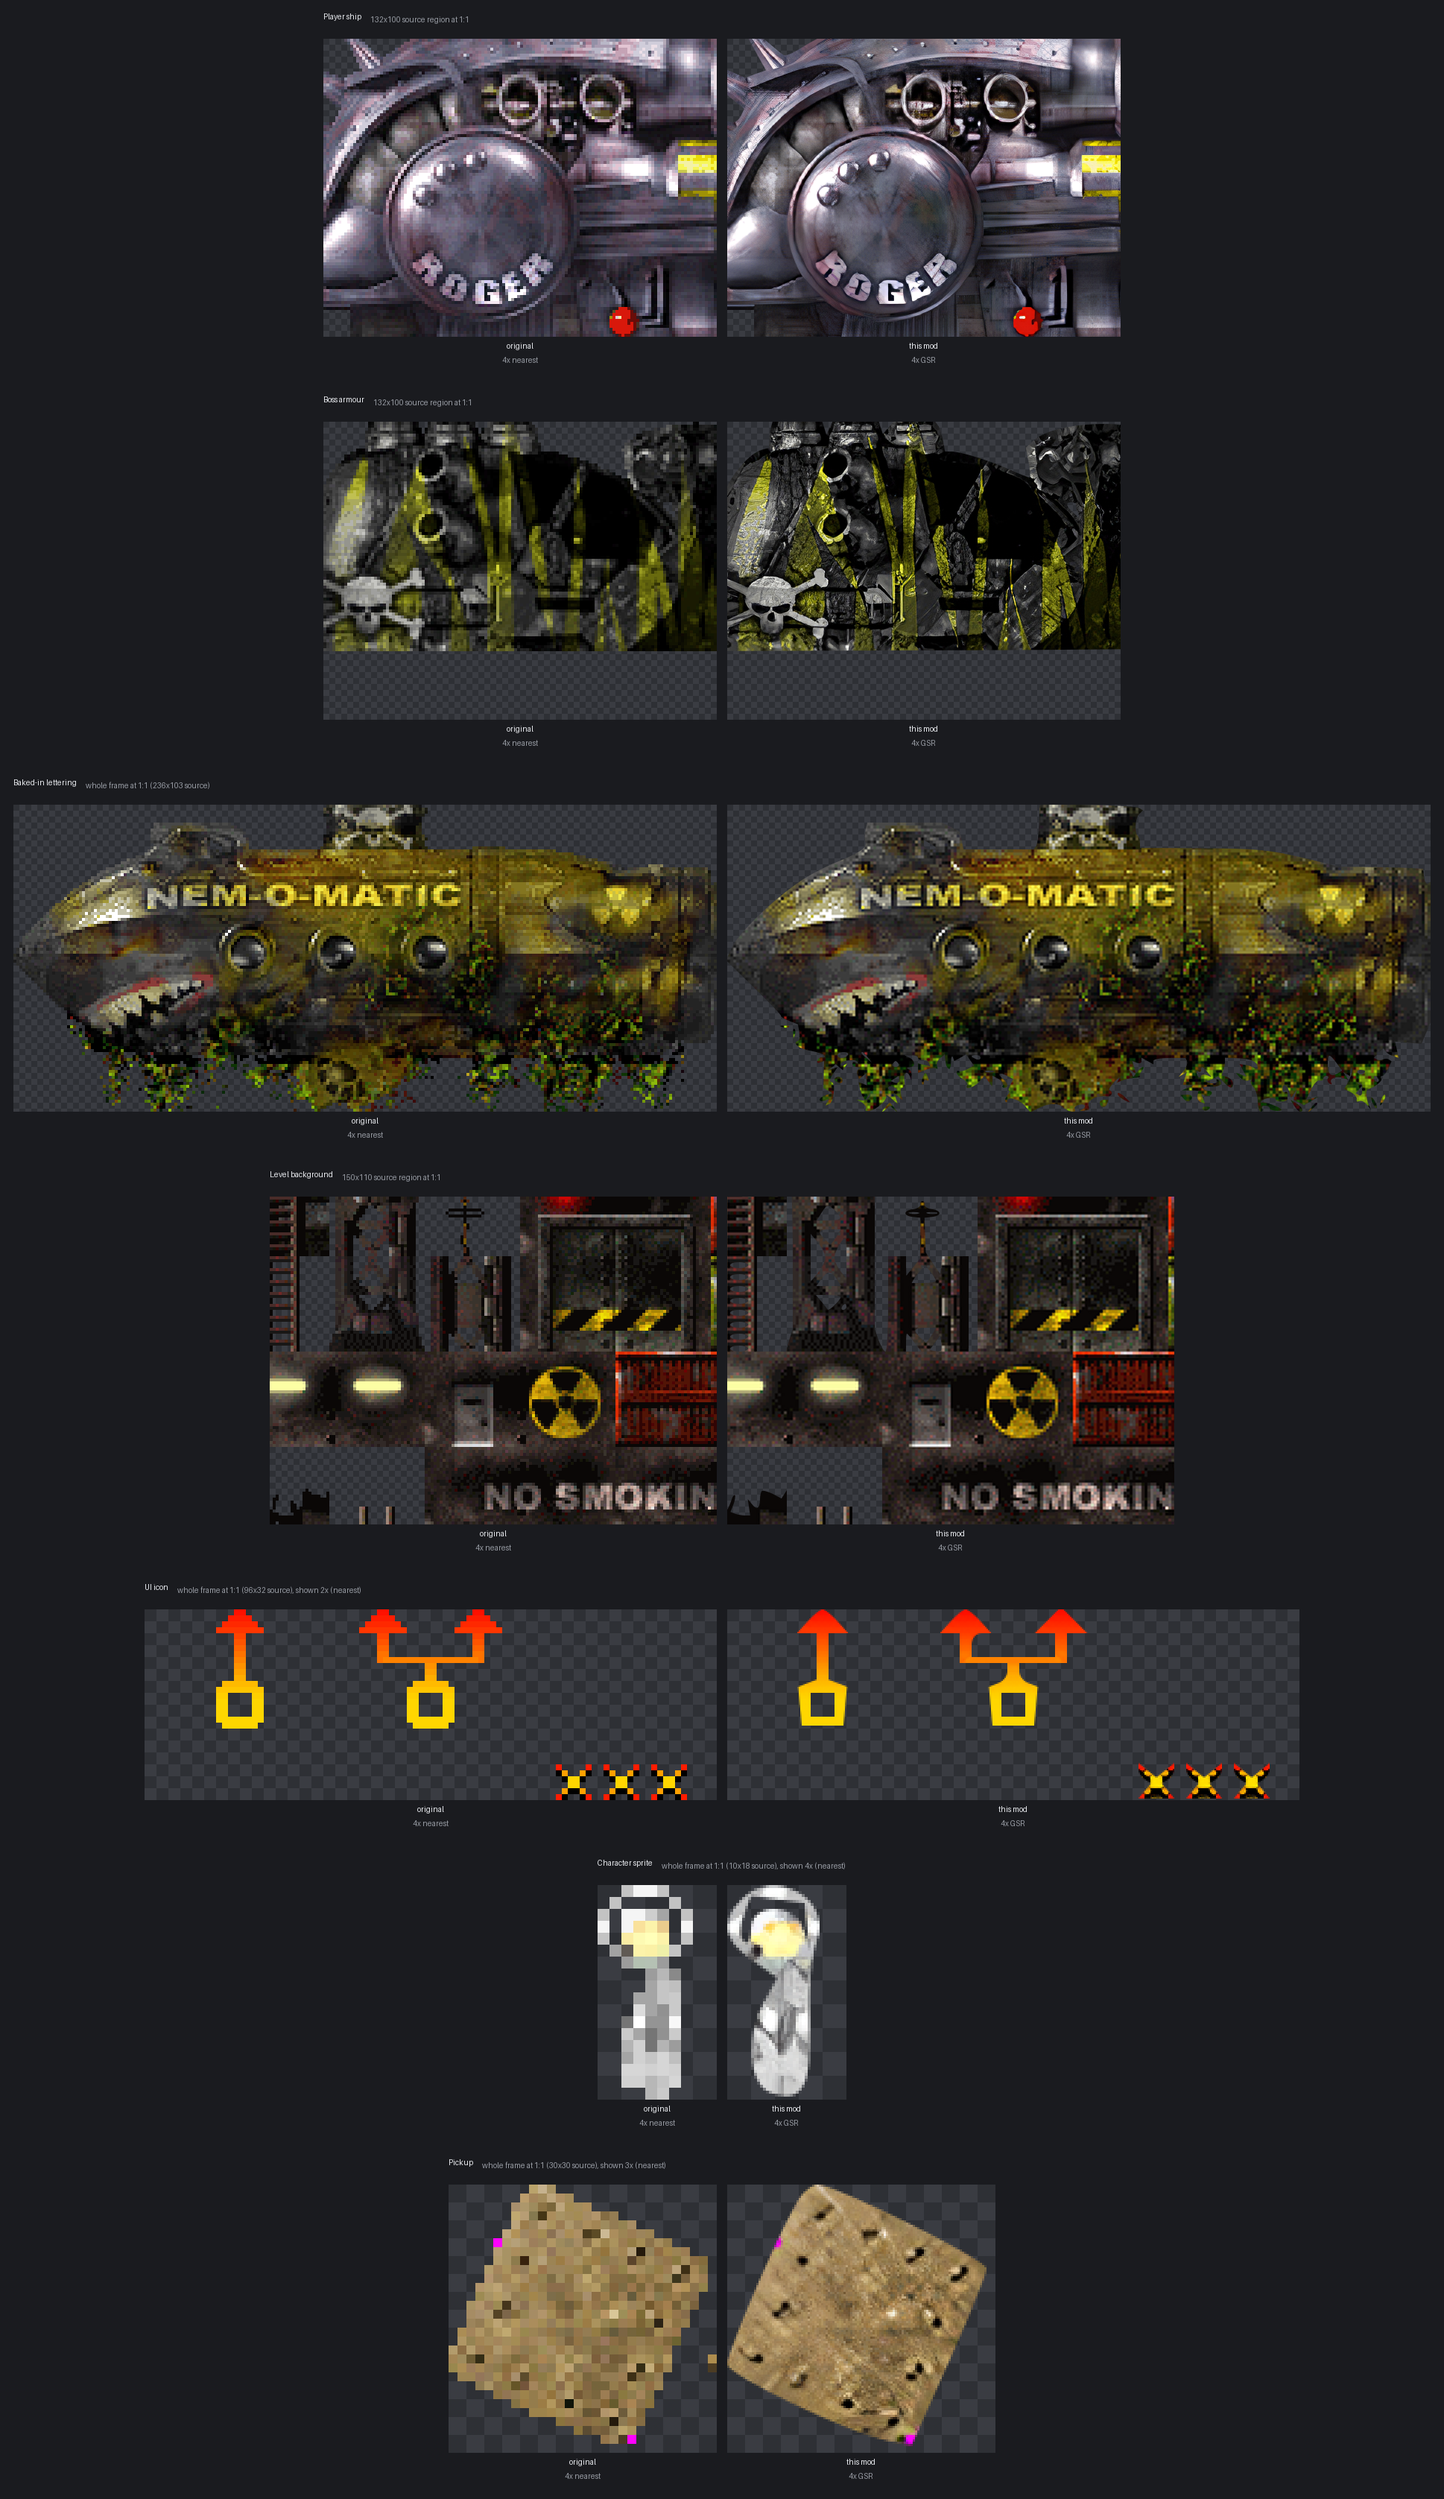
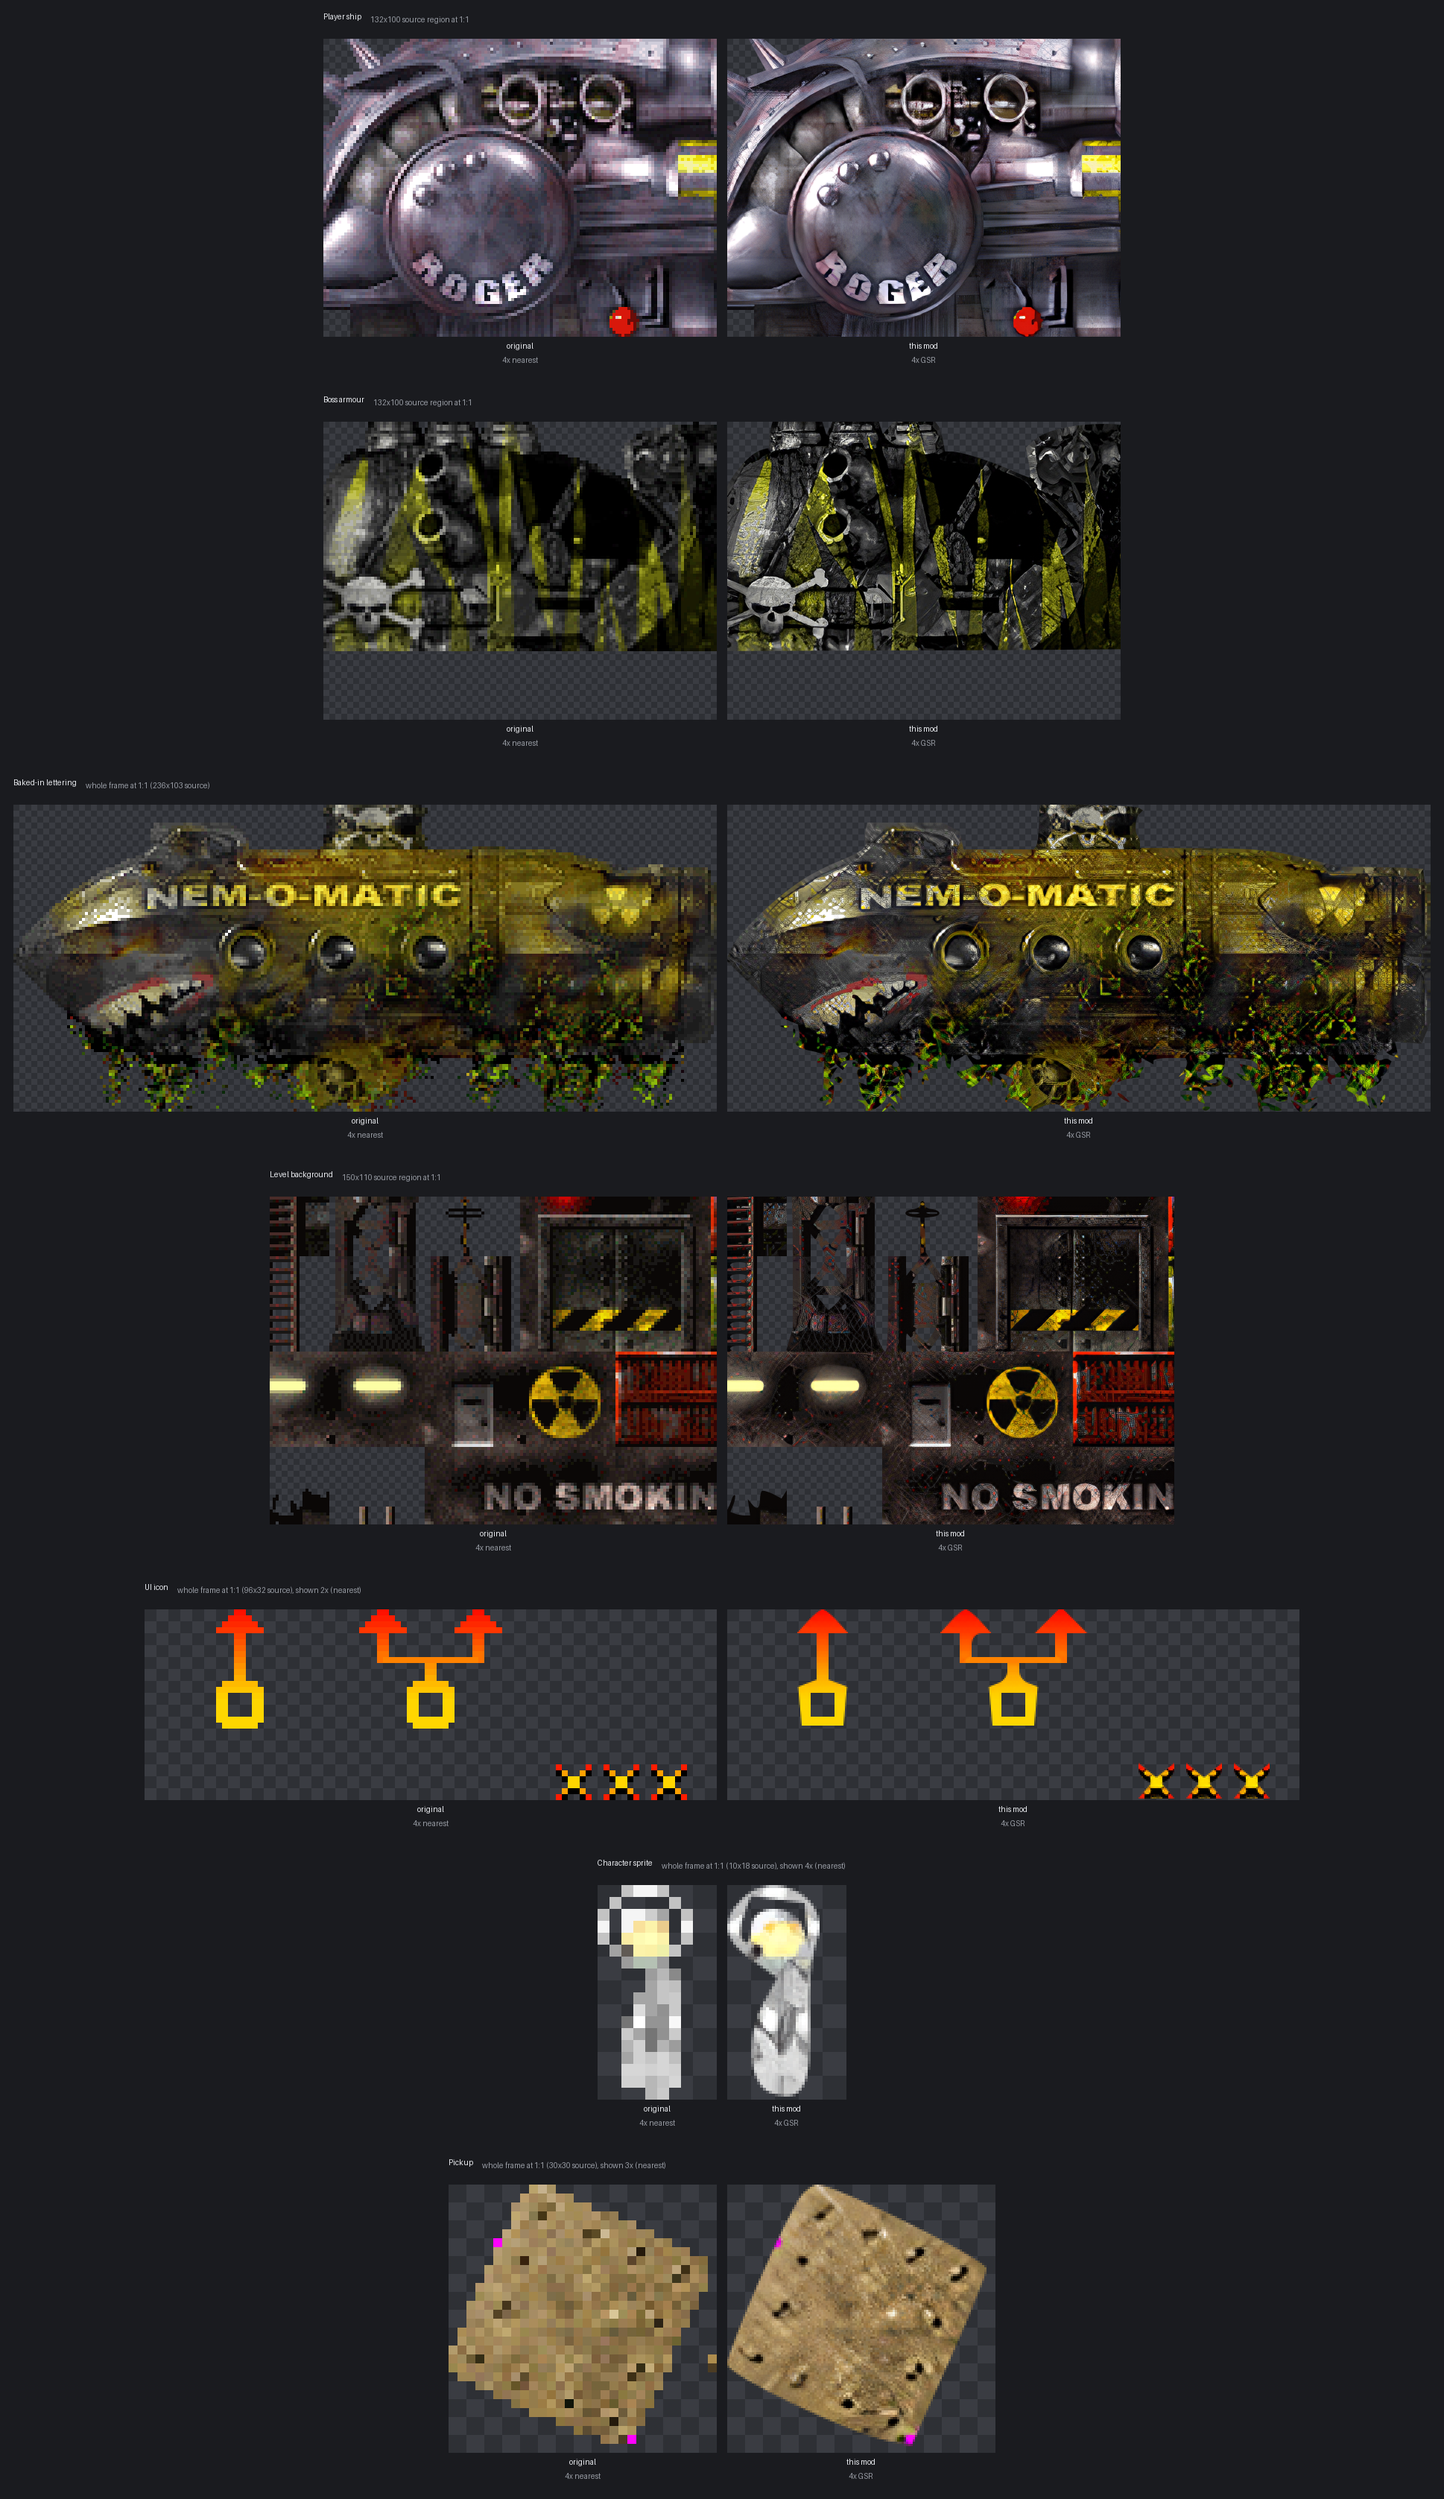
GSR: real upscales for dithered tilesets the guard was quietly LANCZOS'ing
The per-block plausibility guard added with the bleed fix turned out to be
rejecting genuine model garbage that was still being produced: a nearest-
neighbour 2x prescale turns heavy pixel dither into a razor-sharp 2px
checkerboard, and on such art the model resonates on it and paints saturated
rainbow moire (level_cannon's lamp, water/bigsub's camo). The guard caught it
and silently shipped plain LANCZOS instead -- clean, but visibly unupscaled.

FP32 and untiled runs reproduce the moire pixel-for-pixel, so precision,
tiling and memory are ruled out; a bilinear prescale of the same input comes
back clean. Rejected prescaled outputs are therefore redone with a bilinear
prescale (which passes verification with a real GAN upscale) before LANCZOS
is ever accepted; run.sh now forwards GSR_PREFILTER.

A whole-cache sweep with the masked per-block metric also caught 16 files
that shipped with garbage before the guard existed (worst: clouds/sun/fog
edge junk, menu-item JPGs). All 315 suspect files rebuilt through the fixed
pipeline and re-verified: the only remaining flags are alpha-composited
false positives measuring 0.8-5.0 once rendered the way the game renders
them. README figures regenerated from the repaired caches.

diff --git a/tools/gsr/build_hd_gsr.py b/tools/gsr/build_hd_gsr.py
@@ -474,7 +474,7 @@ class Upscaler:
         # deterministic across runs — a genuinely hard image, not corruption), real
         # garbage is 40+. 15 was too tight and needlessly LANCZOS'd worm1b.
         self.garbage_thresh = float(os.environ.get("GSR_GARBAGE_THRESH", "25"))
-        self.retries = self.fallbacks = 0
+        self.retries = self.fallbacks = self.soft_saves = 0
         # Detail preservation — see the block comment above. prescale=2 is the
         # sweet spot: it fixes the structure loss for 4x the model pixels, where
         # prescale=3 costs 9x for a marginal further gain. ensemble>1 aggregates
@@ -721,9 +721,11 @@ class Upscaler:
         return [self._tiled_one(a) if max(a.shape[:2]) > self.tile
                 else self._batch_same_size([a])[0] for a in arrs]
 
-    def _up_many_guarded(self, arrs):
+    def _up_many_guarded(self, arrs, failed=None):
         """As _up_many_raw, but verifies each output and repairs any garbage tile
-        (flush VRAM + retry once; LANCZOS as a last resort). Guarantees no garbage."""
+        (flush VRAM + retry once; LANCZOS as a last resort). Guarantees no garbage.
+        Indices that ended up as LANCZOS are appended to `failed` so the caller
+        can try a better repair than a plain resize."""
         outs = self._up_many_raw(arrs)
         bad = [i for i, (a, o) in enumerate(zip(arrs, outs)) if not self._plausible(a, o)]
         if bad:
@@ -734,6 +736,8 @@ class Upscaler:
                     self.retries += 1
                 else:
                     o = lanczos_rgb(arrs[i]); self.fallbacks += 1
+                    if failed is not None:
+                        failed.append(i)
                 outs[i] = o
         return outs
 
@@ -761,7 +765,24 @@ class Upscaler:
             outs = [np.clip(np.median(np.stack(t).astype(np.float32), 0), 0, 255)
                     .astype(np.uint8) for t in zip(*acc)]
         else:
-            outs = self._up_many_guarded(ins)
+            failed = []
+            outs = self._up_many_guarded(ins, failed)
+            # A nearest prescale turns pixel dither into a razor-sharp 2px
+            # checkerboard, and on some dithered art the model resonates on it
+            # and paints saturated rainbow moire (level_cannon/19_main's lamp,
+            # water/bigsub's camo). A soft prescale removes the bait, so before
+            # accepting a LANCZOS fallback, redo just the failed images with a
+            # bilinear prescale.
+            if failed and p > 1 and self.prefilter != "bilinear":
+                for i in failed:
+                    a = arrs[i]
+                    soft = np.asarray(Image.fromarray(a, "RGB").resize(
+                        (a.shape[1] * p, a.shape[0] * p), Image.BILINEAR), np.uint8)
+                    o = self._up_many_raw([soft])[0]
+                    if self._plausible(soft, o):
+                        outs[i] = o
+                        self.fallbacks -= 1
+                        self.soft_saves += 1
 
         if p > 1:                                   # back down to exactly 4x
             outs = [np.asarray(Image.fromarray(o, "RGB").resize(
@@ -1102,7 +1123,8 @@ def main():
             print(f"[gsr] {done}/{len(need)}  {dt:.0f}s  {done/dt:.1f} img/s{extra}", flush=True)
 
     dt = time.time() - t0
-    rf = f"  (garbage repaired: {up.retries} retries, {up.fallbacks} LANCZOS fallbacks)" if up else ""
+    rf = (f"  (garbage repaired: {up.retries} retries, {up.soft_saves} soft-prescale saves, "
+          f"{up.fallbacks} LANCZOS fallbacks)") if up else ""
     print(f"[gsr] processed {done} ({skipped} left-vanilla) in {dt:.0f}s{rf}", flush=True)
     if up and sum(up.picked):
         pl, pr = up.picked

diff --git a/README.md b/README.md
@@ -339,10 +339,14 @@ sides carry the same bias, but the absolute numbers understate small sprites.
   box-downscaled back to source size matches it closely; anything implausible is retried
   and then LANCZOS'd. The check runs per 16px block as well as globally, because a
   localized garbage blob in a large image moves the global mean by ~1/255 — that gap once
-  let "rainbow noise" ship in level tilesets whose deep magenta-key slabs outran the
-  colour bleed's old 24px reach (the bleed now completes with an exact
-  nearest-real-pixel fill, whatever the keyed area's size). `tools/gsr/scan_quality.py`
-  re-checks the packed `hd.dat`.
+  let "rainbow noise" ship in level tilesets (the colour bleed's old 24px reach was one
+  cause; it now completes with an exact nearest-real-pixel fill, whatever the keyed
+  area's size). The other cause was the nearest-neighbour 2× prescale: on heavily
+  dithered art it turns the pixel dither into a razor-sharp 2px checkerboard the model
+  resonates on, painting saturated rainbow moiré. Rejected outputs are therefore redone
+  with a bilinear prescale — which removes the bait and, measured on the affected
+  tilesets, passes verification with a real GAN upscale — before LANCZOS is ever
+  accepted. `tools/gsr/scan_quality.py` re-checks the packed `hd.dat`.
 - **Inputs are shape-bucketed.** Every sprite is a different size, so the model used to see
   a brand-new tensor shape on nearly every call (1555 distinct shapes across the asset set)
   and MIOpen re-selected kernels each time. Measured on 24 forwards of identical total
